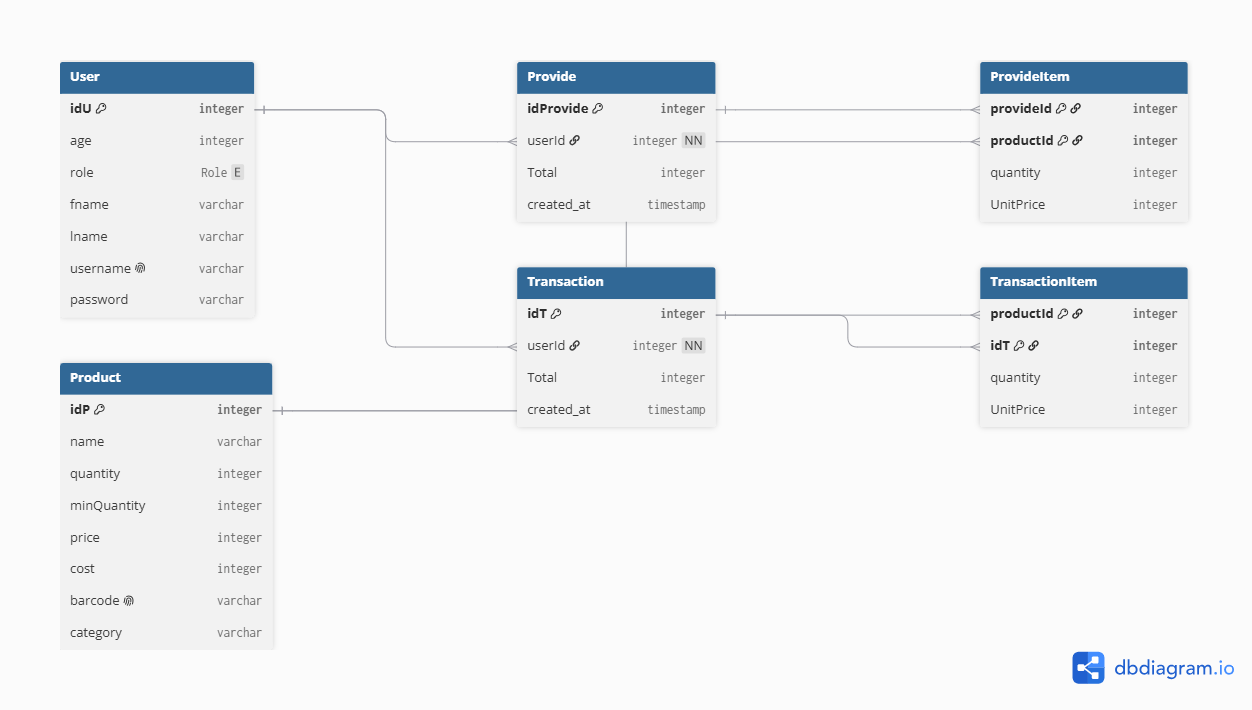
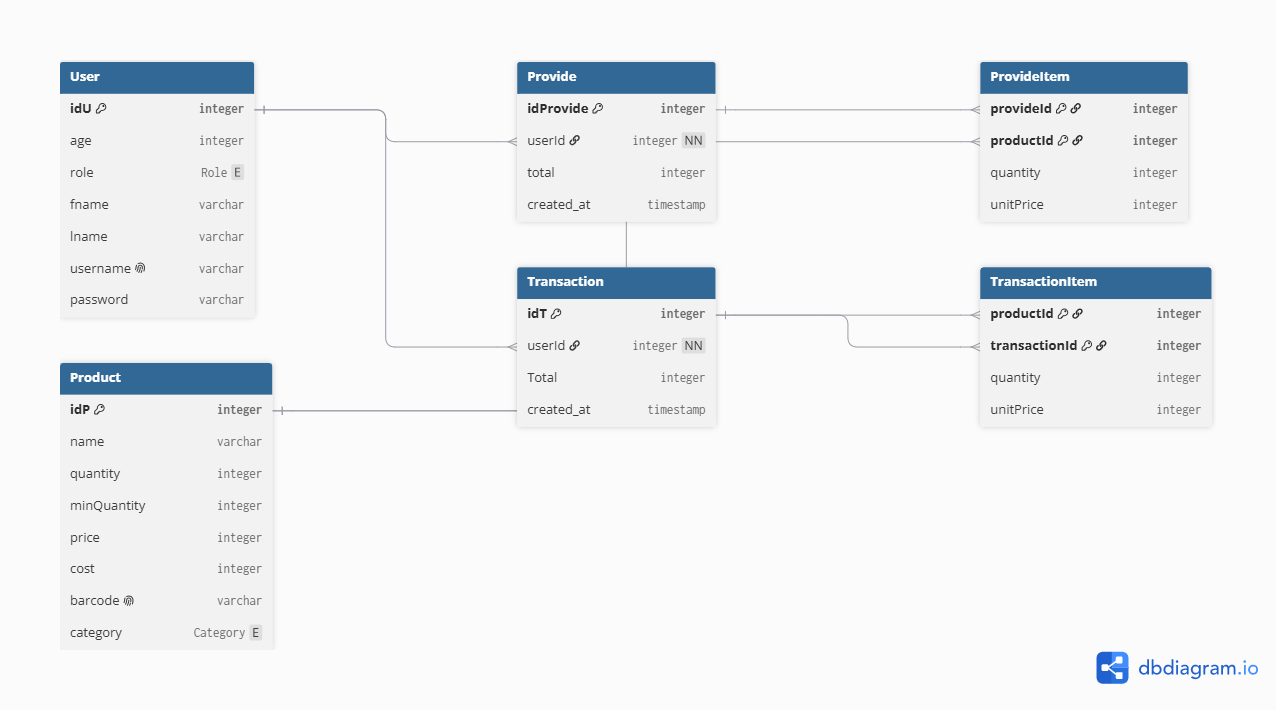
added the mpd pic to the readme file

diff --git a/README.md b/README.md
@@ -1,6 +1,8 @@
 # Inventory_Manager
 A web app that let's you handle a stock as an Owner/worker
 
+## Database Model
+![MPD](MPD.png)
 
 Here is a full “client-level specification” of the Inventory + Sales System, as if you were going to request it from a developer.
 